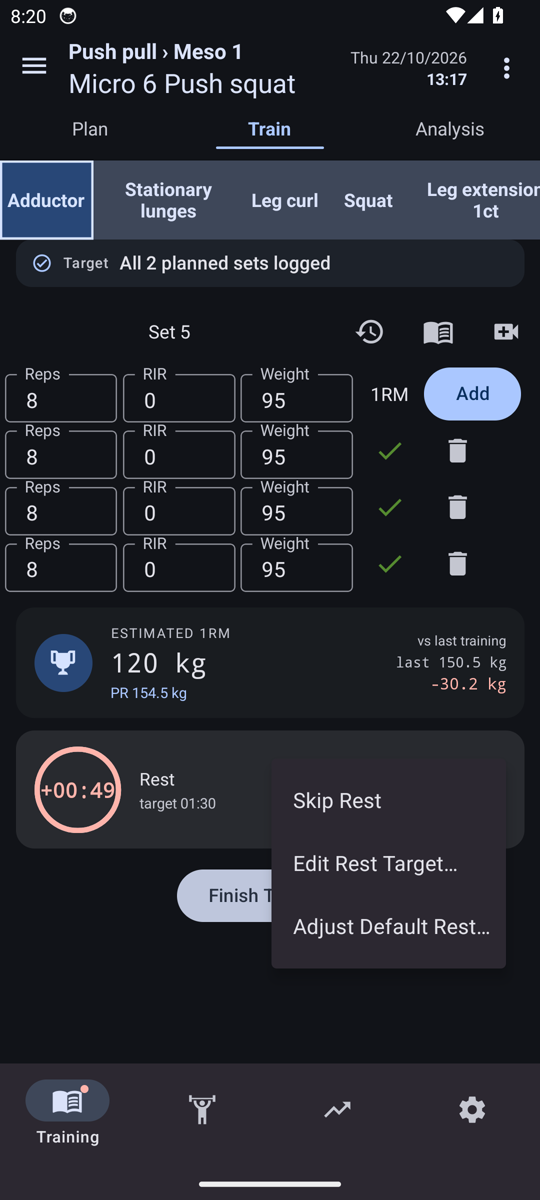
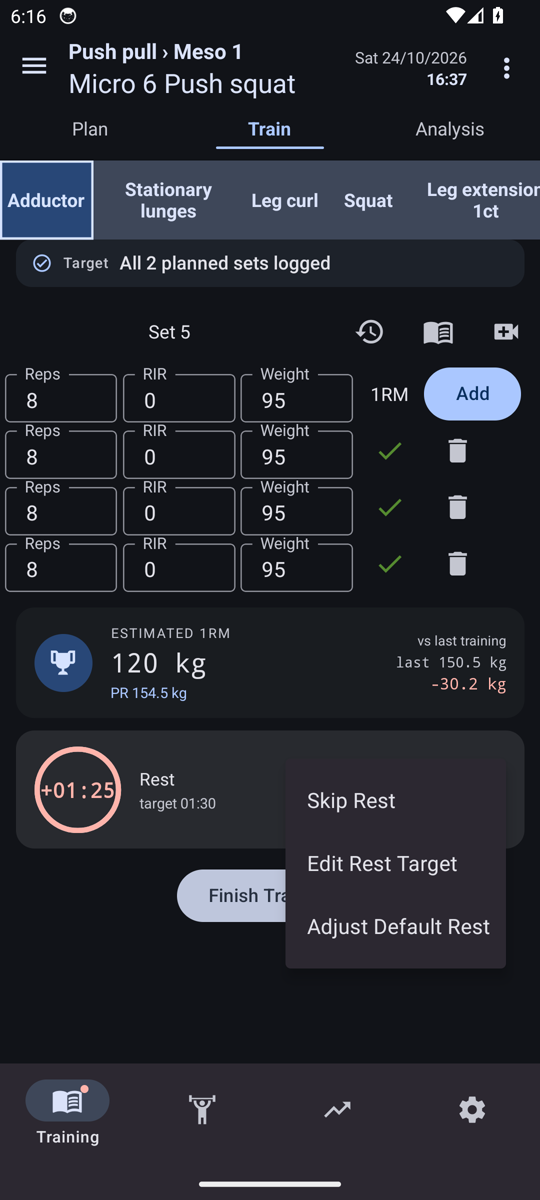
docs(GH-543): evidence screenshots and memory for ellipsis removal

diff --git a/docs/memory/agent-memory.md b/docs/memory/agent-memory.md
@@ -629,3 +629,10 @@ Workers append NEW learnings here (and only here), after checking the table of c
 **Fix / Rule:** `adb shell am start -n com.powerliftingworkoutplanner/.MainActivity`, let it settle ~45 s, then run an import flow that starts with `launchApp: {stopApp: false}`. The SAF picker also opened on "Recent / No items" — `tapOn: 'Show roots'` → `tapOn: 'Downloads'` → `baseline.gains`.
 **Apply when:** `tool.sh import-baseline` fails with "Training is visible" false and the screenshot shows the launcher. (seen in GH-543)
 
+### Maestro text selectors match the FULL string — a label without "…" cannot pass on the "…" build
+**Observation:** `assertVisible: '(?-i)Edit Rest Target'` failed on the old bundle that showed `Edit Rest Target…` (no substring match), and passed after the fix. To assert an ellipsis is gone use `assertNotVisible: '(?-i)Edit Rest Target(…|\.\.\.)'` (escape the dots). In Jest, `queryByText(/…|\.\.\./)` is a substring regex and catches any leftover ellipsis in the open menu.
+**Apply when:** tickets that remove a suffix/prefix from a label (ellipsis, colon, counter). (seen in GH-543)
+
+### CI emulator: the job-start APK is a free "before" build — run the new flow on it before `metro-start`
+**Observation:** right after `wait-ready` the installed APK still runs the PR's previous JS. Capturing the before screenshot and running the updated Maestro flow there (it must FAIL at the changed assertion) before `tool.sh metro-start` + `tool.sh launch` proves the flow is not vacuous, without any rebuild. (seen in GH-543)
+
